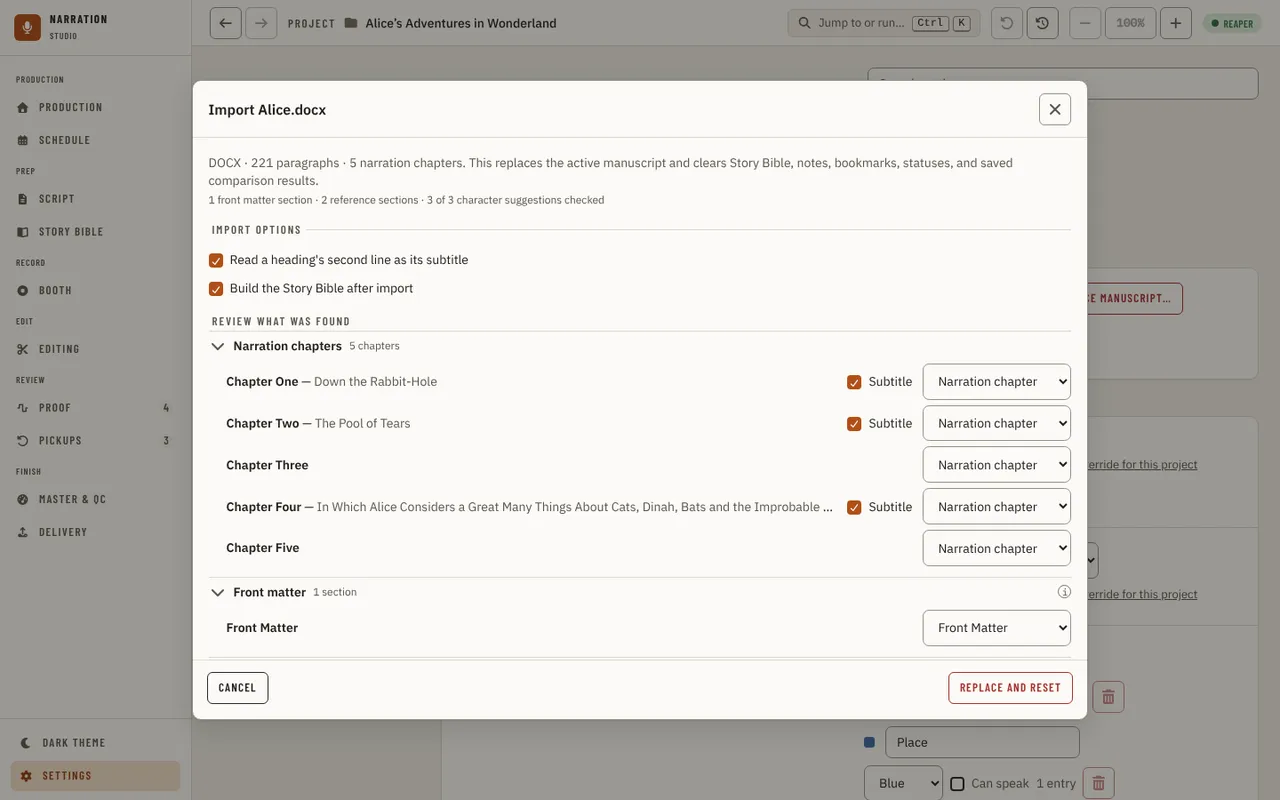
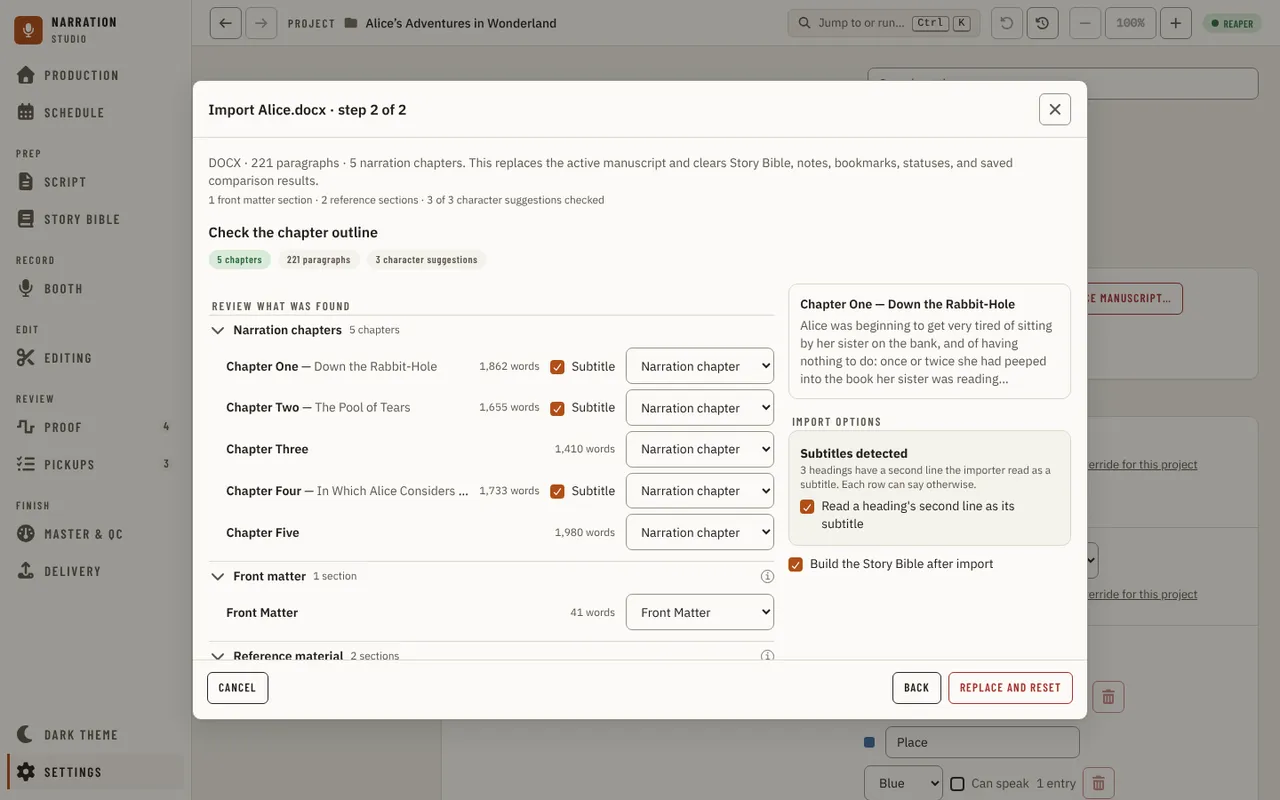
docs(guide): show the import's two steps in the Production and Settings guides (#1837)
Adds the step 1 image (Choose your manuscript), regenerates the step 2 image
and the Settings replace image from the real app, and names the steps in text.

Claude-Session: https://claude.ai/code/session_01SqJLrh4Um3ZCY1pXJVyR7y

diff --git a/docs/guides/using-the-app/settings.md b/docs/guides/using-the-app/settings.md
@@ -154,7 +154,7 @@ With nothing downloaded, the page offers **Download the recommended set** (the S
 
 ![Settings - Project: the manuscript, the Story Bible rows, the marks and the narrator](../../images/ui/settings-project.webp)
 
-- **Manuscript** says when the manuscript was imported and how many words it has (or **No manuscript yet**), with **Replace manuscript…** (or **Import manuscript** when there is none). The replace confirm names what it clears.
+- **Manuscript** says when the manuscript was imported and how many words it has (or **No manuscript yet**), with **Replace manuscript…** (or **Import manuscript** when there is none). **Replace manuscript…** opens the same two steps as the [import](production.md#importing-the-manuscript); step 2 names what the replace clears.
 - **Build the Story Bible after import** and **Language model for the Story Bible** are for all projects, and a project may override them.
 - **Entry types** lists the kinds of [Story Bible](story-bible.md) entry, each with its name, colour, a **Can speak** box (entries of that type can be picked as the speaker of a quoted line, and the next Story Bible build attributes dialogue to them) and how many entries it has. A type you add with **New type** does not speak until you tick the box. Rename a type in its box and every entry of it moves with it; change its colour; or remove one: the remove button stays off while entries use the type, and the last type cannot go. A taken or reserved name is refused, and says why under the list.
 - **Marks** lists your mark types, each with its colour, and **tracks a reply** on a type that asks for one. **Edit marks…** opens the same **Define how you mark up** dialog as the Script page.
@@ -162,7 +162,7 @@ With nothing downloaded, the page offers **Download the recommended set** (the S
 - **Credits**: see [Credits](#credits).
 - **Clear derived data** (Advanced) removes the imported manuscript and its stored source, the Story Bible, proofing artifacts, reader notes and bookmarks, and saved comparison results for the current project, after you confirm. Its settings remain.
 
-![Settings - the Replace manuscript confirm for an imported file, with its title, word count and what is kept](../../images/ui/settings-manuscript.webp)
+![Settings - Replace manuscript, step 2 of 2: the chapter outline, with the line that names what a replace clears](../../images/ui/settings-manuscript.webp)
 
 ![Settings - Clear derived data asks first](../../images/ui/settings-project-data.webp)
 

diff --git a/docs/guides/using-the-app/production.md b/docs/guides/using-the-app/production.md
@@ -271,6 +271,8 @@ manuscript**: drop a file on the zone or press **Choose a file…** to pick a .d
 kept in your project, and the original is read-only. The app checks a dropped file before it reads it: one file at a time, in a format
 it can import. If it cannot use the file, it says why under the zone; press **Choose a file…** instead.
 
+![Replace manuscript, step 1 of 2: Choose your manuscript, with the drop zone and Choose a file…](../../images/ui/production-import-choose.webp)
+
 Choosing the file opens step 2 of 2, **Check the chapter outline**. Each heading in the outline shows how many words it holds, and pressing its title shows how it begins in the preview beside the outline. The step previews the detected format,
 paragraph count, and proposed chapters before anything changes. Each section is named the way the
 manuscript writes its headings: a heading with a label shows the label in bold and the chapter's name
@@ -284,7 +286,7 @@ goes back into the chapter's text so it is narrated (the row says it "is read as
 **Read a heading's second line as its subtitle** option in Import options does the same for every
 row at once; a row you changed by hand keeps your choice.
 
-![Production - import manuscript confirm dialog with format/paragraph/chapter preview](../../images/ui/production-import-confirm.webp)
+![Import manuscript, step 2 of 2: Check the chapter outline, with each heading's words and a preview of how the selected one begins](../../images/ui/production-import-confirm.webp)
 
 The message at the top says what was found: the format, the number of paragraphs and of narration
 chapters, then how many front matter and reference sections, character suggestions and repairs the
